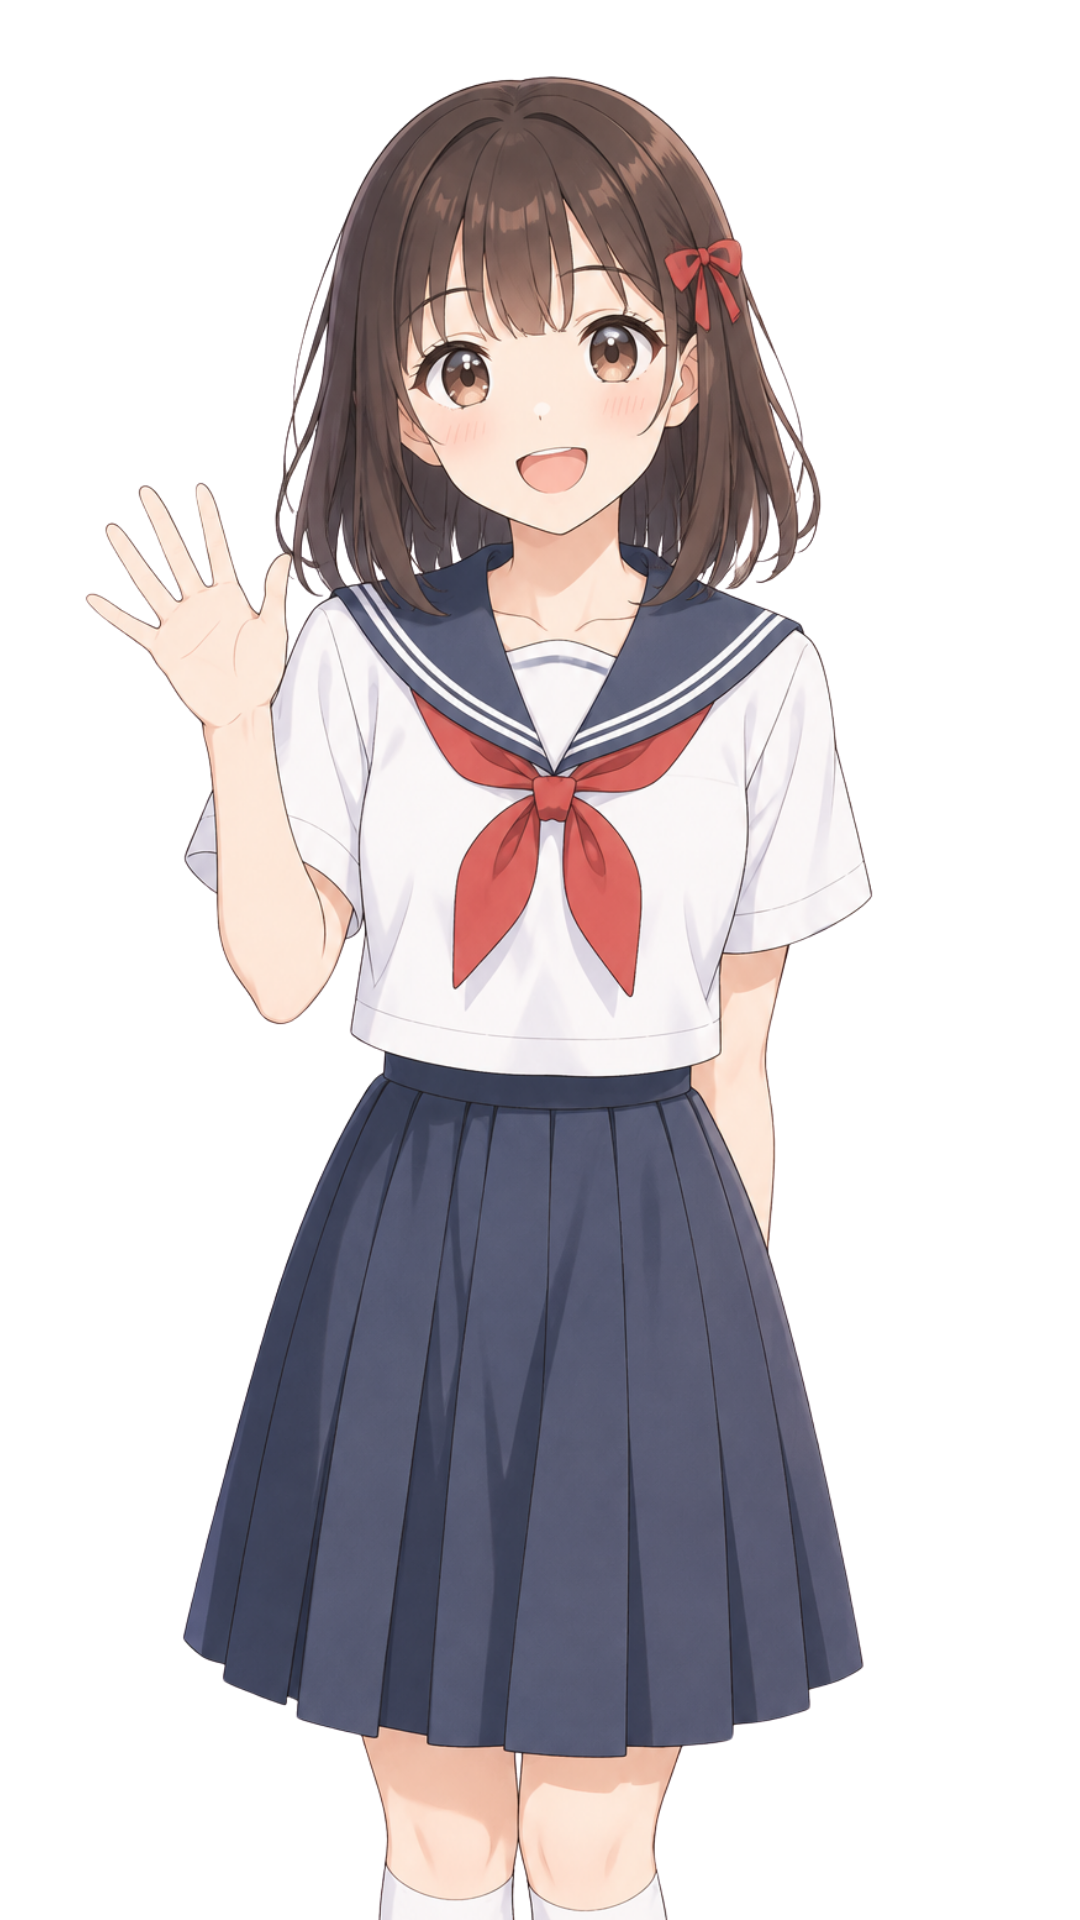
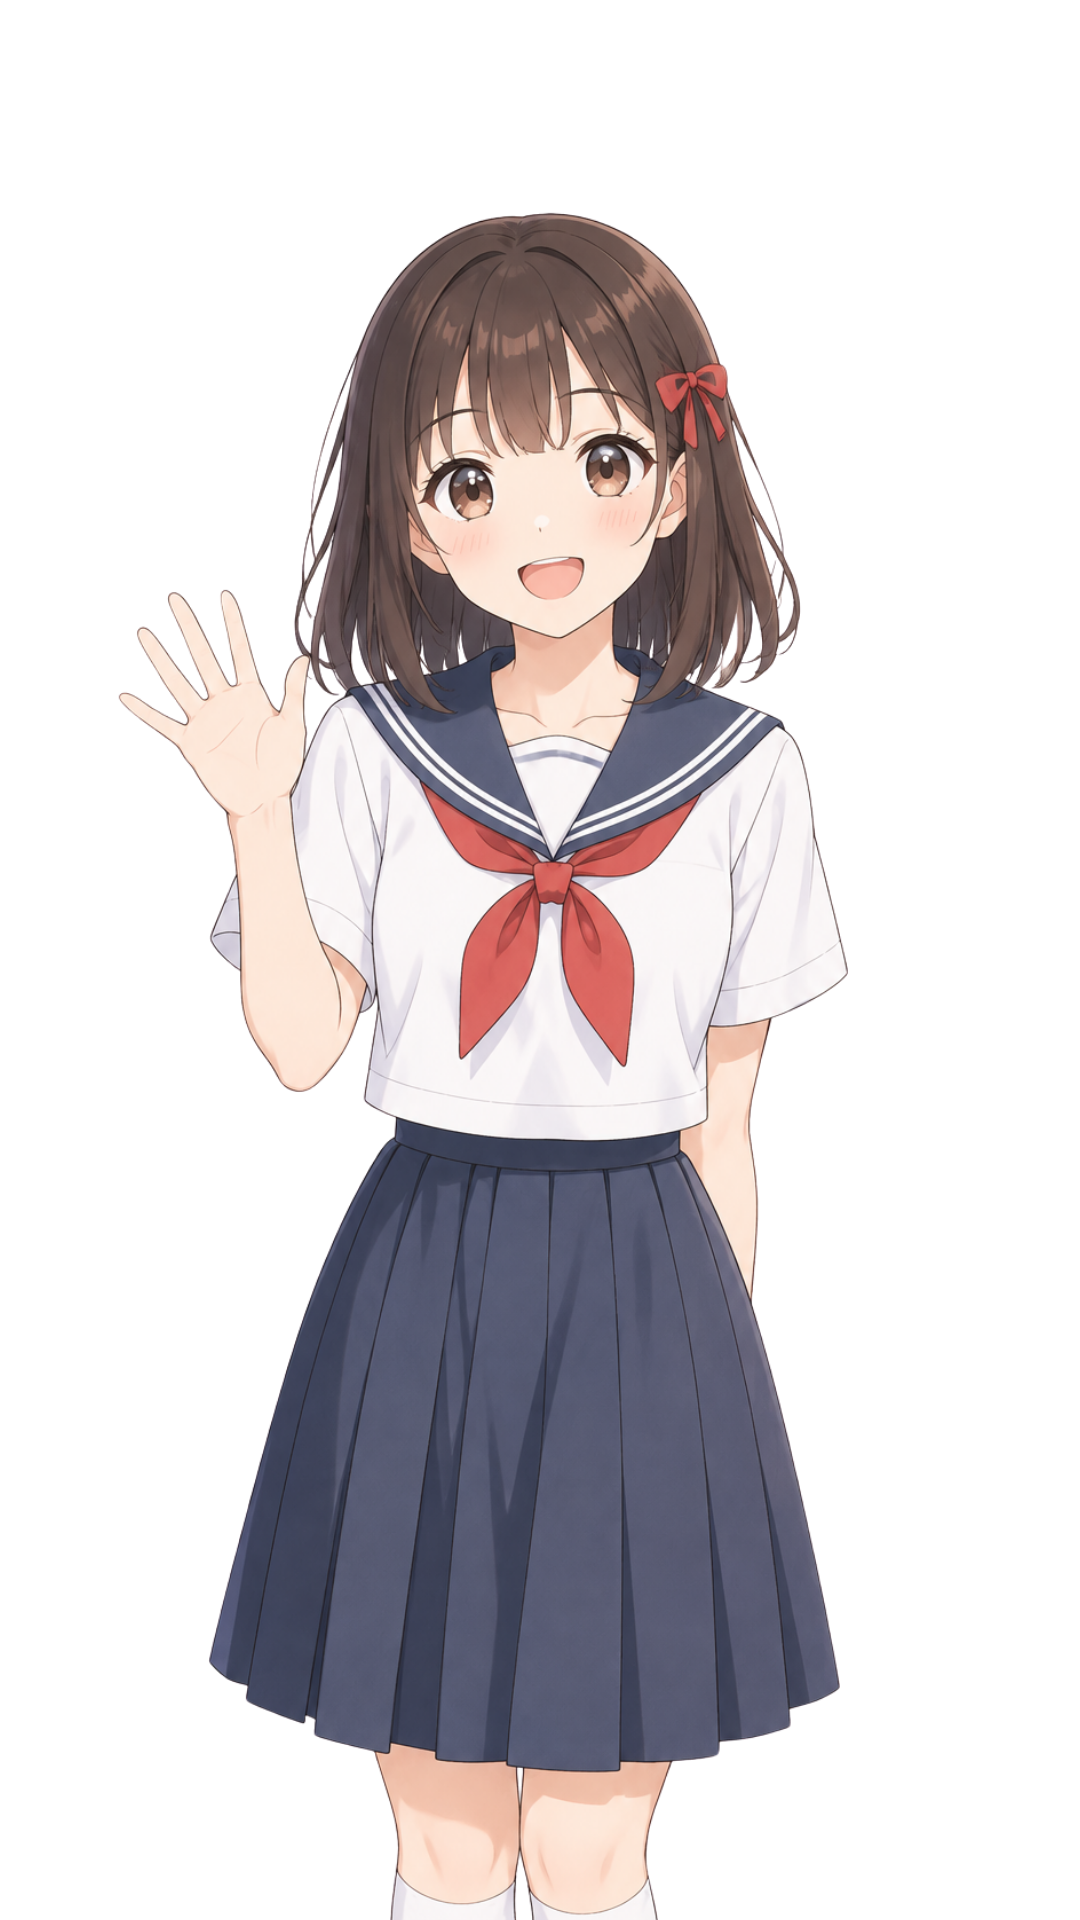
version 1.0.8

Changed region(s): [[0.0917, 0.0312, 0.7944, 1.0], [0.7639, 0.4688, 0.7944, 0.5]]

diff --git a/Script.js b/Script.js
@@ -534,6 +534,14 @@ function startNewGame() {
 
 el.pickCards.forEach((card) => card.addEventListener("click", () => choosePlayer(card.dataset.player)));
 
+// Setelah memilih tema, mulai dari adegan intro (mis. stasiun_intro_01) jika ada;
+// kalau tidak ada, langsung ke adegan awal tema seperti biasa.
+function introStart(theme) {
+  const prefix = String(theme.start || "").split("_")[0];
+  const candidates = [prefix, String(theme.tema || "")].filter(Boolean).map((p) => `${p}_intro_01`);
+  return candidates.find((id) => getNode(id)) || theme.start;
+}
+
 // ---------- Pilih tema ----------
 function showThemeSelect() {
   const cards = state.themeList.map((t, index) => {
